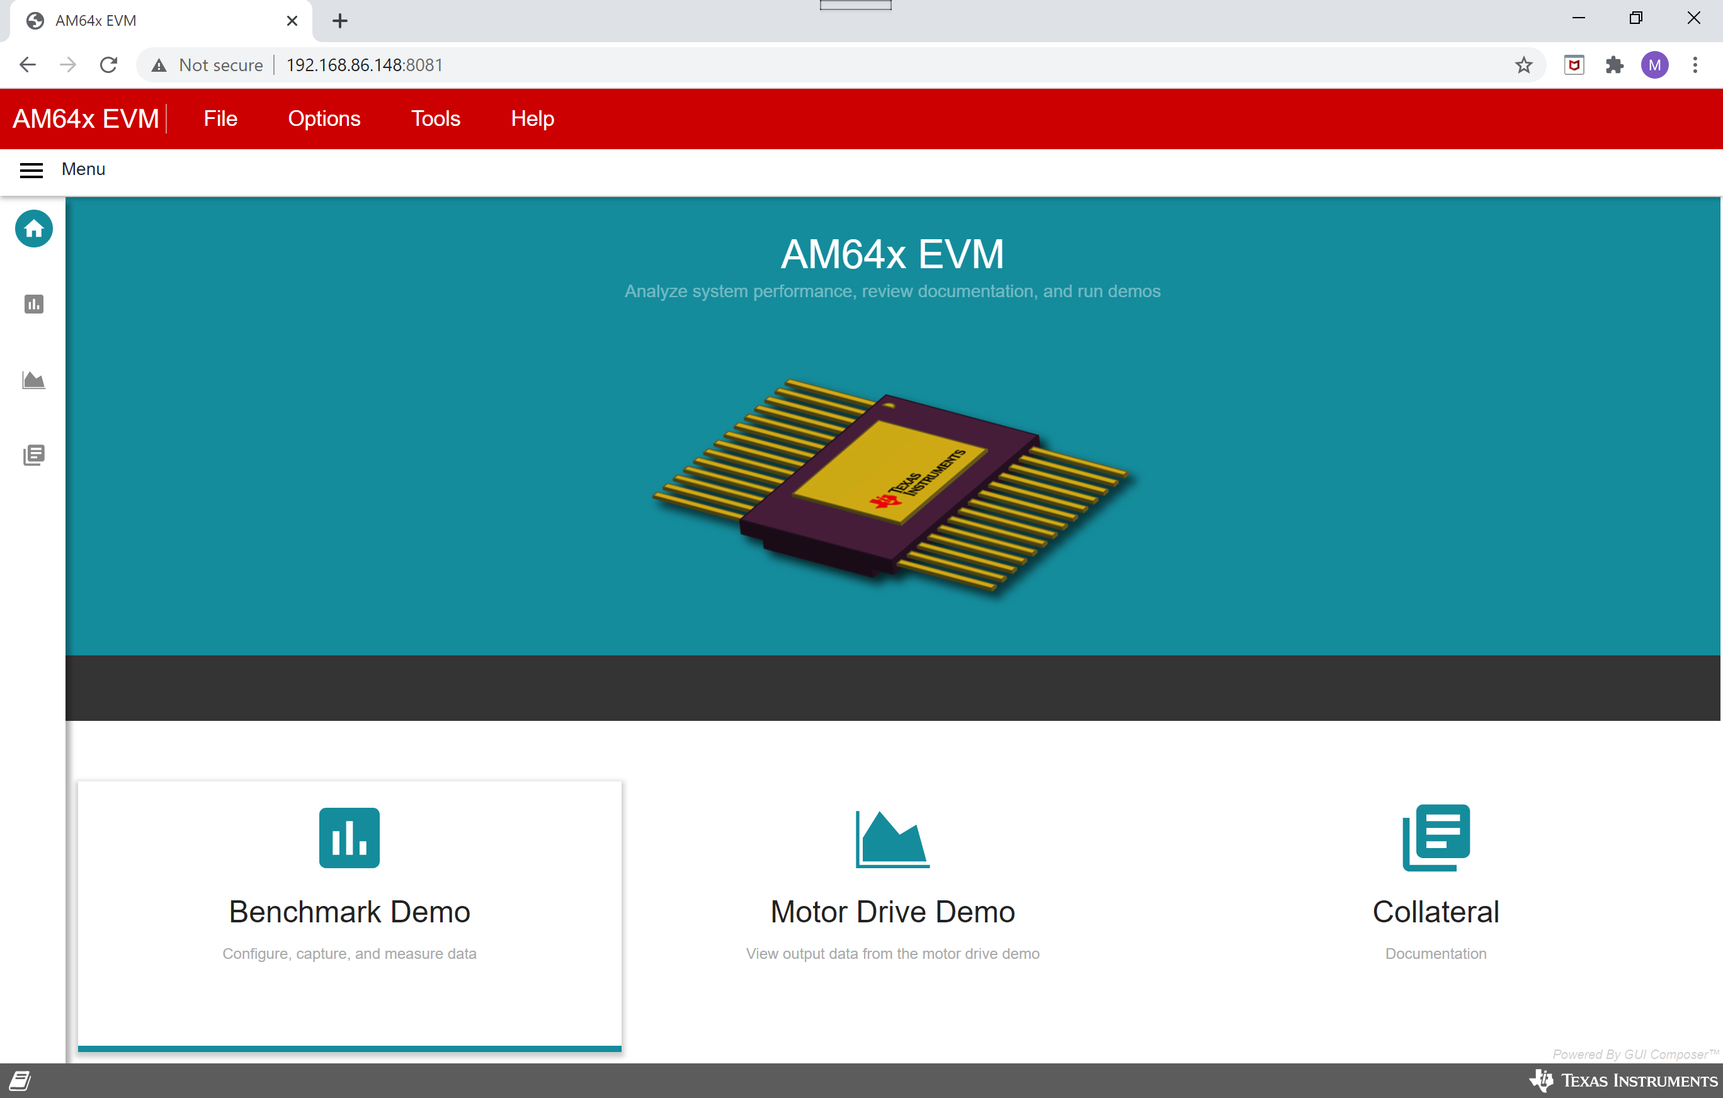
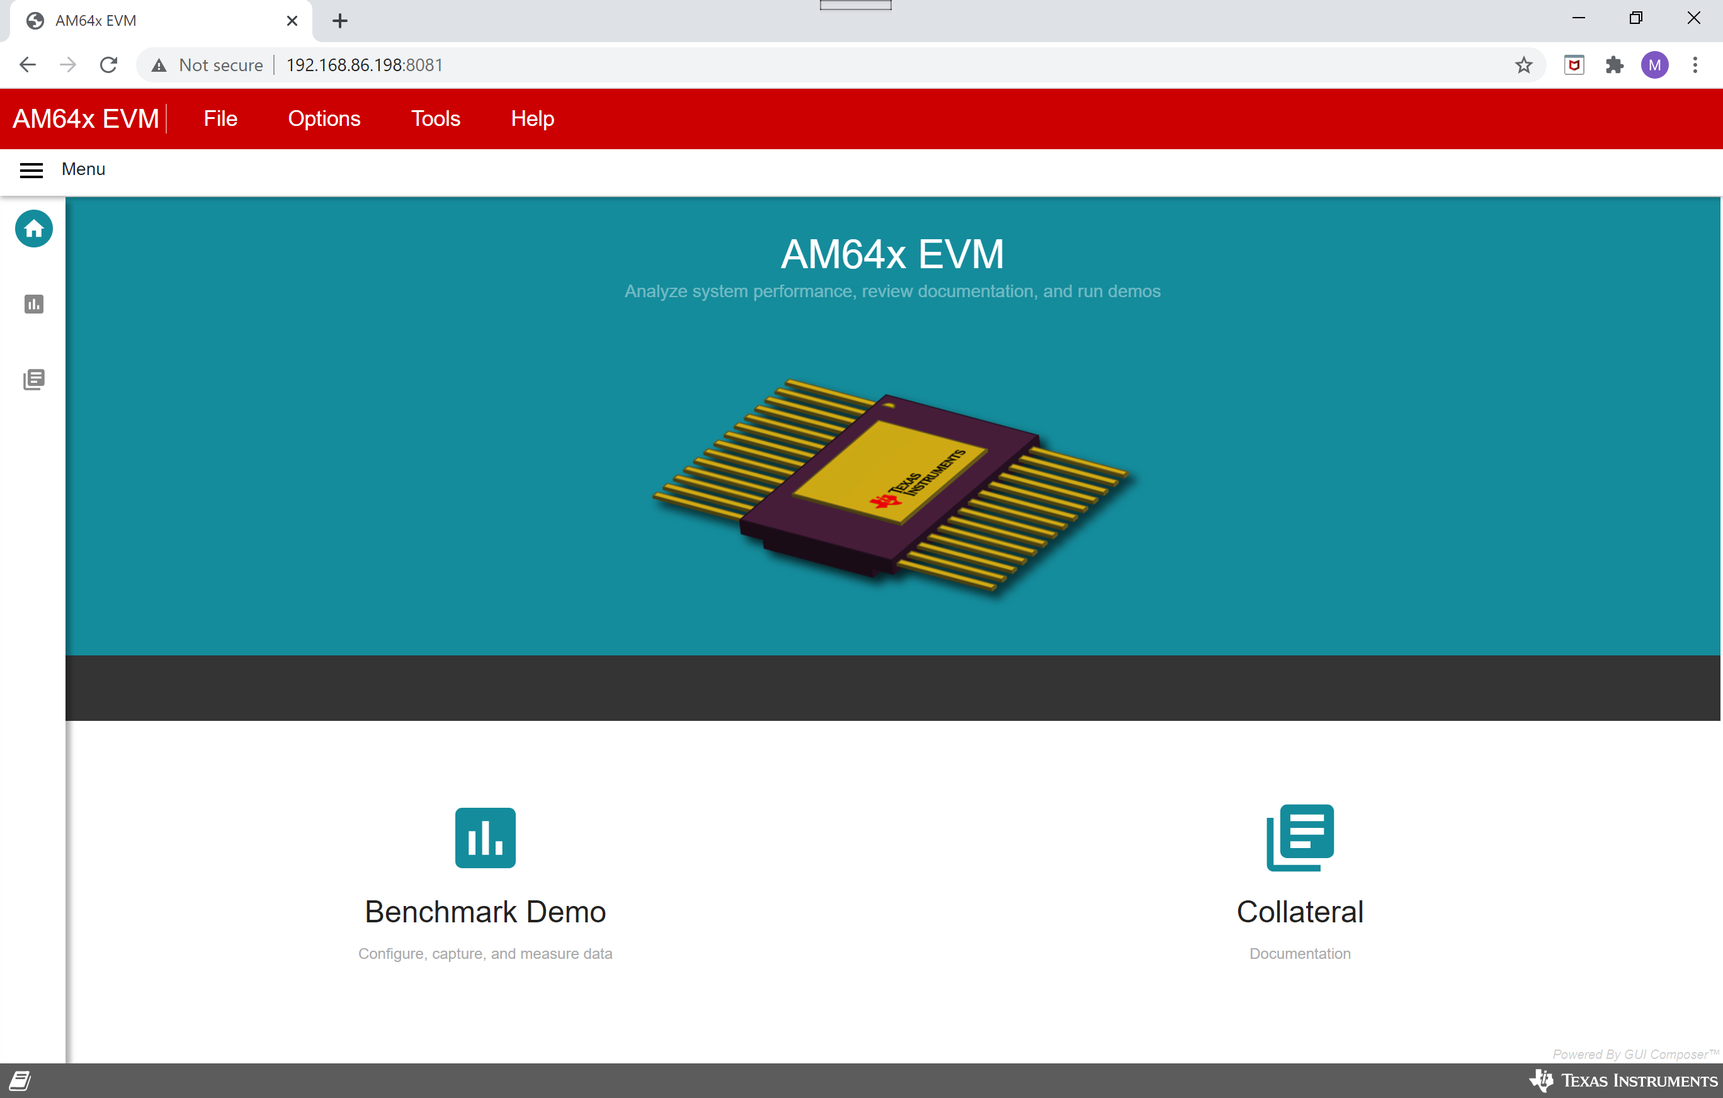
source/system: Update OOB user guide update and remove Combined Boot Flow guide

diff --git a/source/system/Demo_User_Guides/Benchmark_Demo_User_Guide.rst b/source/system/Demo_User_Guides/Benchmark_Demo_User_Guide.rst
@@ -2,18 +2,19 @@
 .. _Benchmark-Demo-User-Guide-label:
 
 Benchmark Demo - User Guide
-================================
+===========================
 
 Overview
 --------
 
 The default application loaded on the AM64x is the Benchmark Demo. It's
 purpose is to showcase the capabilities of the four R5F cores as well as
-the A53 core right out of the box. Several different applications and
-options are available for loading onto the onboard cores in order to
-test the AM64x and view it's performance. All of the necessary equipment
-and instructions are provided below in order to get started with the
-demo.
+the A53 core right out of the box. One of the four R5F benchmarks will run 
+on one of the 4 R5F cores. There are 4 running options available for each 
+benchmark. Users can switch using the drop-down to test the AM64x and view 
+it's performance. 
+
+All of the necessary equipment requirement and instructions are provided here.
 
 Hardware Prerequisites
 ----------------------
@@ -26,7 +27,7 @@ Hardware Prerequisites
 
 -  Ethernet switch or ethernet router with DHCP service
 
--  SD card (minimum 8GB) 
+-  SD card (minimum 2GB) 
 
 Get Started
 -----------
@@ -35,43 +36,50 @@ Get Started
     <PSDK\_PATH>
 
 2.  The prebuilt SD card image (WIC file) is available
-    at <PSDK\_PATH>/linux/filesystem/sitara-rootfs-image-am64x-evm.wic.xz
+    at <PSDK\_PATH>/linux/filesystem/tisdk-default-image-am64xx-evm.wic.xz
 
-3.  unzip the sitara-rootfs-image-am64x-evm.wic.xz to
-    sitara-rootfs-image-am64x-evm.wic
-
-4.  Flash the WIC to SD card
-
-    - For Windows, using Win32DiskImager
-
-    - For Linux,
+3.  unzip the tisdk-default-image-am64xx-evm.wic.xz to tisdk-default-image-am64xx-evm.wic
 
 ::
 
-    sudo dd bs=4M if=./sitara-rootfs-image-am64x-evm.wic of=/dev/sdx status=progress && sync
+    unxz tisdk-default-image-am64xx-evm.wic.xz
+
+4.  Flash the WIC to SD card
+
+    - For Windows, using Win32DiskImager (https://sourceforge.net/projects/win32diskimager/files/latest/download)
+
+    - For Linux, using the following command
+
+::
+
+    sudo dd bs=4M if=./tisdk-default-image-am64xx-evm.wic of=/dev/sdx status=progress && sync
 
 5.  Insert the SD card into the AM64x EVM
 
-6.  Set the Boot mode to "Boot from SD card"
+6.  Set the AM64x EVM Boot mode to "Boot from SD card"
+
+    - SW2(1:8) on, on, off, off, off, off, on, off
+    - SW3(1:8) off, on, off, off, off, off, off, off
 
 7.  Connect an ethernet cable from your ethernet switch or router to the
     AM64x EVM
 
 8.  Connect your PC to the same ethernet switch or router
 
-9.  Connect the UART (via USB cable) to the PC's USB port.
+9.  Connect the UART (J26 via USB cable) to the PC's USB port.
 
-10. Open the the main UART0 port using the TeraTerm or other UART
-    emulator program. Set the port to 112Kbps, 8 bit, no parity, no flow
-    control
+10. Open the the main UART0 port using the TeraTerm or other UART emulator 
+    program. Set the port to 115200bps, 8 bit, no parity, 1 stop bit, no flow control
 
 11. Power on the AM64x
 
-12. After the Linux boot completes, type in "ifconfig" in Linux prompt
-    to find out the IP address for the AM64x EVM
+12. After the Linux boot completes, login as "root", then type in "ifconfig" in 
+    Linux prompt to find out the IP address for the AM64x EVM
+
+.. Image:: /images/OOB_Linux_ifconfig.png
 
 13. On the PC, open a Internet Browser and enter in the
-    following: \ http://IP_ADDRESS_OF_AM64x_EVM:8081, for example, http://192.168.1.100:8081
+    following: \ http://IP_ADDRESS_OF_AM64x_EVM:8081, for example, http://192.168.86.198:8081
 
 14. The following web page will pop up:
 
@@ -81,8 +89,22 @@ Get Started
 
 .. Image:: /images/OOB_GUI_stats.png
 
-16. User can change the "Application" and "Options" for each core, then
-    click "LOAD" to refresh the statistics 
+16. With the current release, the R5F app for each R5F core are fixed. User can only 
+    change the "Options" for each core, then click "LOAD" to refresh the statistics 
+
++-------------+------------------+----------------------+-----------------------------------------------------------+
+| **R5 Core** | **App Name**     |   Default Option     | **Description**                                           |
++=============+==================+======================+===========================================================+
+| 0_0         | ADC and PWM Loop |      8Khz            | ADC/PWM benchmark for R5 5 ADC sample read & 1 PWM write  |
++-------------+------------------+----------------------+-----------------------------------------------------------+
+| 0_1         | CFFT             |      1Khz & 128pt    | CMSIS CFFT benchmark for R5                               |
++-------------+------------------+----------------------+-----------------------------------------------------------+
+| 1_0         | FIR Filtering    |      1Khz            | CMSIS FIR filtering benchmark for R5 320pt & 29-tap       |
++-------------+------------------+----------------------+-----------------------------------------------------------+
+| 1_1         | FOC Loop         |      16Khz           | CMSIS FOC benchmark for R5                                |
++-------------+------------------+----------------------+-----------------------------------------------------------+
+
+.. note:: Sometimes, you see spikes in "CPU Usage". It happens sparsely, so the average numbers are not affected. This is a known issue and we are investigating right now.
 
 Software Architecture
 ---------------------
@@ -102,11 +124,6 @@ Building Blocks
    AM64x is transmitted every time "Load" is clicked. The data are
    transmitted and received in JSON format.
 
--  **AM64x Display:** When the AM64x is connected to the network, the
-   onboard display will show the designated web address to access the
-   Benchmark Demo. If an error occurs on the AM64x while running the
-   demo, it will be displayed here.
-
 -  **R5 and A53 Applications:**
 
    -  IPC RPMsg\_char library for R5: it provides a API for R5
@@ -122,9 +139,6 @@ Building Blocks
 
    -  CMSIS FOC benchmark for R5: FOC benchmark application using CMSIS
       DSP library for R5 
-
-   -  CMSIS PID benchmark for R5: Speed/position loop benchmark
-      application using CMSIS DSP library for R5
 
    -  ADC/PWM benchmark for R5: ADC/PWM loop benchmark application for
       R5 
@@ -165,11 +179,10 @@ HTTP
 ~~~~
 
 All data communication is handled via HTTP. Benchmark data from the
-AM64x is requested by the GUI every second, whereas the application and
-option selection data is pushed from the GUI to the AM64x when the
-"Load" button is clicked. The HTTP requests are handled with jQuery, and
-the body of each HTTP request is a JSON string containing the
-input/output benchmark data.
+AM64x is requested by the GUI every second, whereas the option selection 
+data is pushed from the GUI to the AM64x when the "Load" button is clicked. 
+The HTTP requests are handled with jQuery, and the body of each HTTP request 
+is a JSON string containing the input/output benchmark data.
 
 JSON
 ~~~~
@@ -182,23 +195,23 @@ A53 Linux application will also get the benchmark data from the R5 cores
 and then update the JSON file accordingly. The updated JSON file
 will then be displayed on the GUI every second.     
 
-Build Demos and Update SD card
-------------------------------
+Build Linux+Baremetal Demos and Update SD card
+----------------------------------------------
 
-1. Install the Sitara SDK on a Linux or a Windows machine at
+1. Install the Sitara SDK on a Linux machine at
    <PSDK\_PATH>
 
 2. Change directory
 
 ::
 
-   cd <PSDK_PATH>
+   cd <PSDK_PATH>/sitara-apps
 
 3. Build the demo
 
 ::
 
-   make all (for Linux) or gmake all (for Windows)
+   make common_libs benchmark_demo BUILD_LINUX_APPS=1 RTOS_ONLY_BUILD=0
 
 4. The R5 apps will be in
    <PSDK\_PATH>/apps/benchmark\_demo/out/AM64X/R5F/NO\_OS/release
@@ -208,14 +221,62 @@ Build Demos and Update SD card
 
 6. Update the SD card with above newly built R5 apps and A53 app
 
-   - Copy the R5 apps from
-      <PSDK\_PATH>/apps/benchmark\_demo/out/AM64X/R5F/NO\_OS/release/\*.out
-      to /lib/firmware/sitara-apps/sitara-benchmark-demo/ of rootfs
-      partition on SD card
+   - Copy the R5 apps from <PSDK\_PATH>/apps/benchmark\_demo/out/AM64X/R5F/NO\_OS/release/\*.out
+     to /lib/firmware/sitara-apps/sitara-benchmark-demo/ of rootfs partition on SD card
 
-   - Copy the A53 app
-      from <PSDK\_PATH>/apps/benchmark\_demo/webserver\_app/linux\_app/rpmsg\_json
-      to /usr/bin/rpmsg\_json of rootfs partition of SD card
+   - Copy the A53 app from <PSDK\_PATH>/apps/benchmark\_demo/webserver\_app/linux\_app/rpmsg\_json
+     to /usr/bin/rpmsg\_json of rootfs partition of SD card
+
+Build Baremetal Demos and Update SD card
+----------------------------------------
+
+1. Install the Sitara SDK on a Linux or a Windows machine at
+   <PSDK\_PATH>
+
+2. Change directory
+
+::
+
+   cd <PSDK_PATH>/sitara-apps
+
+3. Build the demo
+
+::
+
+   make common_libs benchmark_demo BUILD_LINUX_APPS=0 RTOS_ONLY_BUILD=1   (for Linux) 
+   gmake common_libs benchmark_demo BUILD_LINUX_APPS=0 RTOS_ONLY_BUILD=1  (for Windows)
+
+4. The 3 baremetal SD card bootable files will be in
+   <PSDK\_PATH>/apps/benchmark\_demo/out/AM64X/SDCardImage
+
+5. Update the SD card with above newly built Baremetal SD card bootable files
+
+   - Delete all files from the SD card boot partition
+   - Copy the 3 baremetal SD card bootable files from
+     <PSDK\_PATH>/apps/benchmark\_demo/out/AM64X/SDCardImage
+     to boot partition on SD card
+
+6. Display the benchmark statistics for baremetal only SD card boot
+
+   - Because the baremetal only demo will not be able to display anything on 
+     webserver, in order to see the benchmark statstics, CCS has to be used
+   - Create a target configuration (ccxml) file with no gel file attached to DSMC core
+   - Put the AM64x EVM in SD card boot mode: 
+      - SW2(1:8) on, on, off, off, off, off, on, off
+      - SW3(1:8) off, on, off, off, off, off, off, off
+   - Boot for a baremetal only SD card, wait until the Linux boot is completed
+   - Launch the target configuration file without gel file on DSMC core
+   - Connect to the R5F core of interest (R5_0_0, R5_0_1, R5_1_0, or R5_1_1)
+   - To examine the statistics, you will need to add gCoreStat into your Expressions. 
+      - gCoreStat.output.cload.cur: the current CPU loading in percentage
+      - gCoreStat.output.cload.ave: the average CPU loading in percentage
+      - gCoreStat.output.cload.max: the maximum CPU loading in percentage
+      - gCoreStat.output.ilate.ave: the average interrupt latency in ns
+      - gCoreStat.output.ilate.max: the maximum interrupt latency in ns
+      - gCoreStat.output.ccploop.ave: the average cycle count per loop
+      - gCoreStat.output.ccploop.max: the maximum cycle count per loop
+      - gCoreStat.output.ave_count: the number of loops has been perfomed in this benchmark 
+
 
 Directory Structure
 -------------------
@@ -248,50 +309,48 @@ Directory Structure
 Benchmark Results
 -----------------
 
-R5 Benchmarks
-~~~~~~~~~~~~~
+R5 Benchmarks (Average)
+~~~~~~~~~~~~~~~~~~~~~~~
 
-+------------------------------------------------------------+------------------------+---------------+---------------+--------------------------+
-| Application                                                | Cycle Count Per Loop   | CPU Usage %   | RAM Usage %   | Interrupt   Latency ns   |
-+============================================================+========================+===============+===============+==========================+
-| CFFT (SP, 128pt) @ 1Khz                                    |                        |               |               |                          |
-+------------------------------------------------------------+------------------------+---------------+---------------+--------------------------+
-| CFFT (SP, 256pt) @ 1Khz                                    |                        |               |               |                          |
-+------------------------------------------------------------+------------------------+---------------+---------------+--------------------------+
-| CFFT (SP, 512pt) @ 1Khz                                    |                        |               |               |                          |
-+------------------------------------------------------------+------------------------+---------------+---------------+--------------------------+
-| CFFT (SP, 1024pt) @ 1Khz                                   |                        |               |               |                          |
-+------------------------------------------------------------+------------------------+---------------+---------------+--------------------------+
-| FIR Filtering (SP, 320pt, 29   taps) @ 1Khz                |                        |               |               |                          |
-+------------------------------------------------------------+------------------------+---------------+---------------+--------------------------+
-| FIR Filtering (SP, 320pt, 29   taps) @ 2Khz                |                        |               |               |                          |
-+------------------------------------------------------------+------------------------+---------------+---------------+--------------------------+
-| FIR Filtering (SP, 320pt, 29   taps) @ 4Khz                |                        |               |               |                          |
-+------------------------------------------------------------+------------------------+---------------+---------------+--------------------------+
-| FIR Filtering (SP, 320pt, 29   taps) @ 8Khz                |                        |               |               |                          |
-+------------------------------------------------------------+------------------------+---------------+---------------+--------------------------+
-| FOC Control Loop using CMSIS   funcs @ 8Khz                |                        |               |               |                          |
-+------------------------------------------------------------+------------------------+---------------+---------------+--------------------------+
-| FOC Control Loop using CMSIS funcs @ 16Khz                 |                        |               |               |                          |
-+------------------------------------------------------------+------------------------+---------------+---------------+--------------------------+
-| FOC Control Loop using CMSIS   funcs @ 32Khz               |                        |               |               |                          |
-+------------------------------------------------------------+------------------------+---------------+---------------+--------------------------+
-| FOC Control Loop using CMSIS   funcs @ 50Khz               |                        |               |               |                          |
-+------------------------------------------------------------+------------------------+---------------+---------------+--------------------------+
-| Speed/Position Control Loop   using CMSIS funcs @ 8Khz     |                        |               |               |                          |
-+------------------------------------------------------------+------------------------+---------------+---------------+--------------------------+
-| Speed/Position Control Loop using CMSIS funcs @ 16Khz      |                        |               |               |                          |
-+------------------------------------------------------------+------------------------+---------------+---------------+--------------------------+
-| Speed/Position Control Loop   using CMSIS funcs @ 32Khz    |                        |               |               |                          |
-+------------------------------------------------------------+------------------------+---------------+---------------+--------------------------+
-| Speed/Position Control Loop   using CMSIS funcs @ 50Khz    |                        |               |               |                          |
-+------------------------------------------------------------+------------------------+---------------+---------------+--------------------------+
-| ADC Sampling and Conversion   and ePWM Write @ 8Khz        |                        |               |               |                          |
-+------------------------------------------------------------+------------------------+---------------+---------------+--------------------------+
-| ADC Sampling and Conversion   and ePWM Write @ 16Khz       |                        |               |               |                          |
-+------------------------------------------------------------+------------------------+---------------+---------------+--------------------------+
-| ADC Sampling and Conversion   and ePWM Write @ 32Khz       |                        |               |               |                          |
-+------------------------------------------------------------+------------------------+---------------+---------------+--------------------------+
-| ADC Sampling   and Conversion and ePWM Write @ 50Khz       |                        |               |               |                          |
-+------------------------------------------------------------+------------------------+---------------+---------------+--------------------------+
++--------------------------------------------------------+----------------------+-------------+-------------+----------------------+
+| Application                                            | Cycle Count Per Loop | CPU Usage % | RAM Usage % | Interrupt Latency ns |
++========================================================+======================+=============+=============+======================+
+| CFFT (SP, 128pt) @ 1Khz*                               |         9857         |      1      |      38     |          80          |
++--------------------------------------------------------+----------------------+-------------+-------------+----------------------+
+| CFFT (SP, 256pt) @ 1Khz                                |        20770         |      2      |      38     |          80          |
++--------------------------------------------------------+----------------------+-------------+-------------+----------------------+
+| CFFT (SP, 512pt) @ 1Khz                                |        45421         |      5      |      38     |          80          |
++--------------------------------------------------------+----------------------+-------------+-------------+----------------------+
+| CFFT (SP, 1024pt) @ 1Khz                               |       107701         |     13      |      38     |          80          |
++--------------------------------------------------------+----------------------+-------------+-------------+----------------------+
+| FIR Filtering (SP, 320pt, 29 taps) @ 1Khz*             |        20169         |      2      |      28     |          80          |
++--------------------------------------------------------+----------------------+-------------+-------------+----------------------+
+| FIR Filtering (SP, 320pt, 29 taps) @ 2Khz              |        20154         |      5      |      28     |          80          |
++--------------------------------------------------------+----------------------+-------------+-------------+----------------------+
+| FIR Filtering (SP, 320pt, 29 taps) @ 4Khz              |        20166         |     10      |      28     |          80          |
++--------------------------------------------------------+----------------------+-------------+-------------+----------------------+
+| FIR Filtering (SP, 320pt, 29 taps) @ 8Khz              |        20169         |     20      |      28     |          80          |
++--------------------------------------------------------+----------------------+-------------+-------------+----------------------+
+| FOC Control Loop using CMSIS funcs @ 16Khz*            |         326          |      0      |      27     |          80          |
++--------------------------------------------------------+----------------------+-------------+-------------+----------------------+
+| FOC Control Loop using CMSIS funcs @ 32Khz             |         330          |      1      |      27     |          80          |
++--------------------------------------------------------+----------------------+-------------+-------------+----------------------+
+| FOC Control Loop using CMSIS funcs @ 100Khz            |         328          |      4      |      27     |          80          |
++--------------------------------------------------------+----------------------+-------------+-------------+----------------------+
+| FOC Control Loop using CMSIS funcs @ 250Khz            |         290          |      9      |      27     |          80          |
++--------------------------------------------------------+----------------------+-------------+-------------+----------------------+
+| 5 ADC Sampling and Conversion and 1 ePWM Write @ 8Khz* |         604          |      0      |      27     |         N/A          |
++--------------------------------------------------------+----------------------+-------------+-------------+----------------------+
+| 5 ADC Sampling and Conversion and 1 ePWM Write @ 16Khz |         604          |      1      |      27     |         N/A          |
++--------------------------------------------------------+----------------------+-------------+-------------+----------------------+
+| 5 ADC Sampling and Conversion and 1 ePWM Write @ 32Khz |         606          |      2      |      27     |         N/A          |
++--------------------------------------------------------+----------------------+-------------+-------------+----------------------+
+| 5 ADC Sampling and Conversion and 1 ePWM Write @ 50Khz |         743          |      4      |      27     |         N/A          |
++--------------------------------------------------------+----------------------+-------------+-------------+----------------------+
 
+.. note:: "RAM Usage %" is computed based on 320KB (64KB TCM + 256KB MSMC) per R5F core
+.. note:: "CPU Usage %" is computed based on R5F core running at 800Mhz
+.. note:: "*" is the default running frequencywhen the benchmark demo starts
+
+A53 Benchmarks (TBD)
+~~~~~~~~~~~~~~~~~~~~
